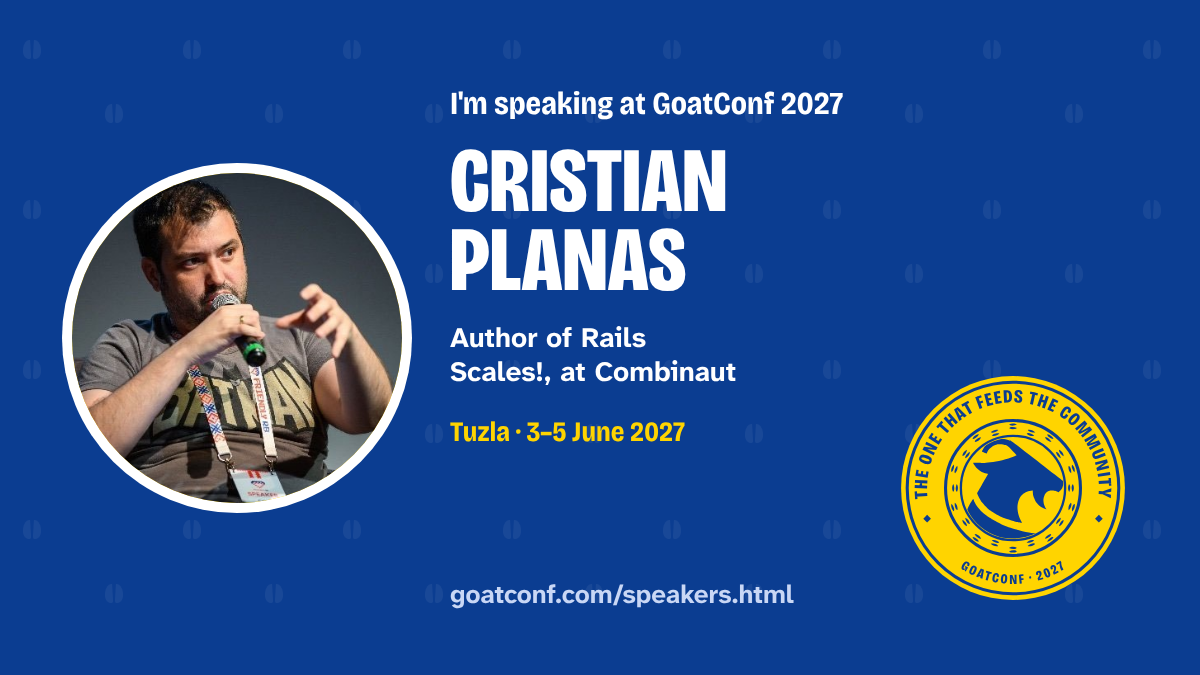
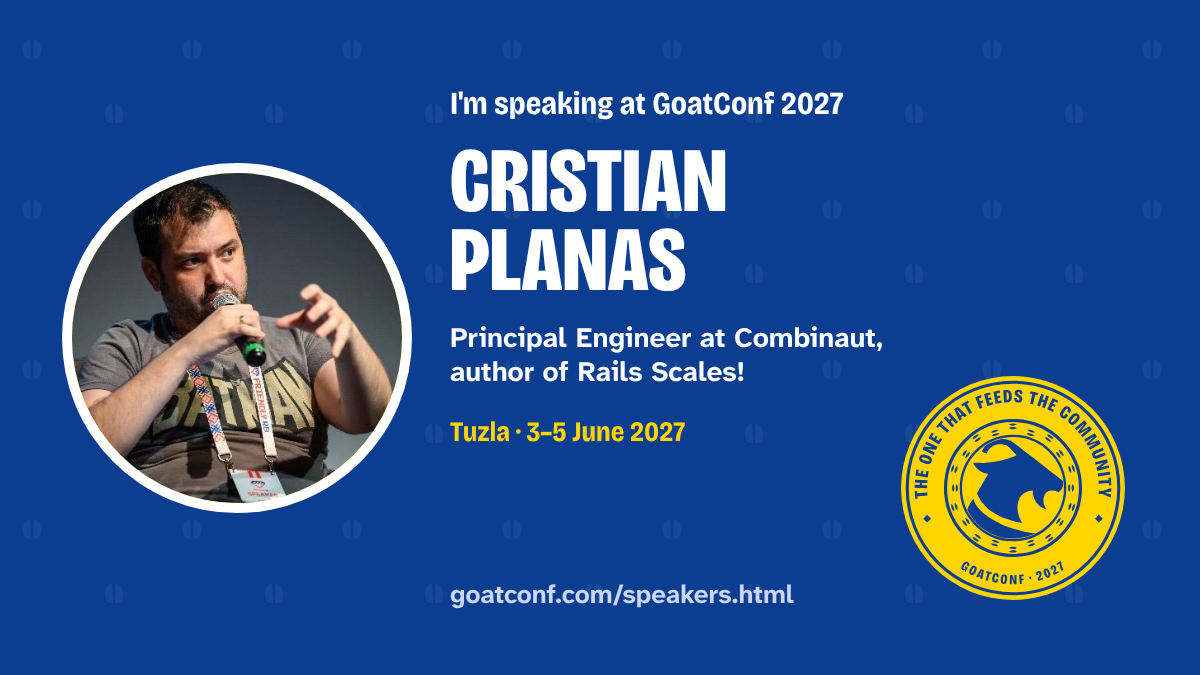
speakers: Cristian Planas is a Principal Engineer at Combinaut
His RubyConf India 2026 speaker card names him Principal Engineer at
Combinaut, which fills the title his wiki page had as unknown. His role
on the site, his cards and the first speakers post in the drumbeat now
reads "Principal Engineer at Combinaut, author of Rails Scales!", in the
shape the other speakers' roles take. The card's text is snapshotted
under sources/web/speakers/, and his wiki page also notes the RubyConf
India talk.

diff --git a/files/site/speaker-cristian-planas.html b/files/site/speaker-cristian-planas.html
@@ -4,7 +4,7 @@
 <meta charset="utf-8">
 <meta name="viewport" content="width=device-width, initial-scale=1">
 <title>Cristian Planas: speaking at GoatConf 2027, Tuzla</title>
-<meta name="description" content="Cristian Planas (Author of Rails Scales!, at Combinaut) speaks at GoatConf 2027 in Tuzla, 3–5 June 2027: a session at IPI Academy.">
+<meta name="description" content="Cristian Planas (Principal Engineer at Combinaut, author of Rails Scales!) speaks at GoatConf 2027 in Tuzla, 3–5 June 2027: a session at IPI Academy.">
 <meta name="theme-color" content="#0b3d91">
 <link rel="canonical" href="https://goatconf.com/speaker-cristian-planas">
 <link rel="image_src" href="https://goatconf.com/share/speaker-cristian-planas-preview.png">
@@ -15,7 +15,7 @@
 <meta property="og:type" content="website">
 <meta property="og:site_name" content="GoatConf">
 <meta property="og:title" content="Cristian Planas: speaking at GoatConf 2027, Tuzla">
-<meta property="og:description" content="Cristian Planas (Author of Rails Scales!, at Combinaut) speaks at GoatConf 2027 in Tuzla, 3–5 June 2027: a session at IPI Academy.">
+<meta property="og:description" content="Cristian Planas (Principal Engineer at Combinaut, author of Rails Scales!) speaks at GoatConf 2027 in Tuzla, 3–5 June 2027: a session at IPI Academy.">
 <meta property="og:url" content="https://goatconf.com/speaker-cristian-planas">
 <meta property="og:image" content="https://goatconf.com/share/speaker-cristian-planas-preview.png">
 <meta property="og:image:width" content="1200">
@@ -47,7 +47,7 @@
 <div class="page-head">
   <picture><source type="image/webp" srcset="img/speakers/cristian-planas-400.webp 400w" sizes="(max-width: 47.99rem) 92vw, 34rem"><img class="page-head__photo page-head__photo--portrait" src="img/speakers/cristian-planas.jpg" width="800" height="800" alt="Cristian Planas" decoding="async"></picture>
   <h1 class="sign">Cristian Planas</h1>
-  <p class="lede"><span class="lede__role">Author of Rails Scales!, at Combinaut</span>Speaking at GoatConf 2027 in Tuzla.</p>
+  <p class="lede"><span class="lede__role">Principal Engineer at Combinaut, author of Rails Scales!</span>Speaking at GoatConf 2027 in Tuzla.</p>
 </div>
 <section class="album-page wrap speaker-page" aria-labelledby="h-about">
   <h2 class="band" id="h-about">Who they are</h2>

diff --git a/files/site/speakers.html b/files/site/speakers.html
@@ -91,7 +91,7 @@
     <a class="speaker__link" href="speaker-cristian-planas.html">
     <span class="num">6</span>
     <figure class="speaker__photo"><picture><source type="image/webp" srcset="img/speakers/cristian-planas-400.webp 400w" sizes="(max-width: 47.99rem) 92vw, 22rem"><img src="img/speakers/cristian-planas.jpg" alt="" loading="lazy"></picture><figcaption>Cristian Planas</figcaption></figure>
-    <span class="speaker__body"><span class="speaker__role">Author of Rails Scales!, at Combinaut</span></span>
+    <span class="speaker__body"><span class="speaker__role">Principal Engineer at Combinaut, author of Rails Scales!</span></span>
     </a>
   </li>
   <li class="sticker sticker--speaker" id="christoph-lipautz" data-peel style="--tilt:0.5deg">

diff --git a/files/site/index.html b/files/site/index.html
@@ -143,7 +143,7 @@
     <a class="speaker__link" href="speaker-cristian-planas.html">
     <span class="num">16</span>
     <figure class="speaker__photo"><picture><source type="image/webp" srcset="img/speakers/cristian-planas-400.webp 400w" sizes="(max-width: 47.99rem) 92vw, 22rem"><img src="img/speakers/cristian-planas.jpg" alt="" loading="lazy"></picture><figcaption>Cristian Planas</figcaption></figure>
-    <span class="speaker__body"><span class="speaker__role">Author of Rails Scales!, at Combinaut</span></span>
+    <span class="speaker__body"><span class="speaker__role">Principal Engineer at Combinaut, author of Rails Scales!</span></span>
     </a>
   </li>
   <li class="sticker sticker--speaker" data-peel style="--tilt:-0.5deg">

diff --git a/files/wiki/org/speakers/cristian-planas.md b/files/wiki/org/speakers/cristian-planas.md
@@ -2,12 +2,14 @@
 title: "Speaker: Cristian Planas"
 kind: entity
 status: living
-updated: 2026-10-14
+updated: 2026-10-22
 confidence: medium
 sources:
   - sources/conversations/2026-10-14--org--cristian-planas.md
   - sources/web/speakers/kaigi-on-rails-2026-cristian-planas-2026-10-14.md
   - sources/web/speakers/rails-scales-and-talks-cristian-planas-2026-10-14.md
+  - sources/conversations/2026-10-22--org--cristian-planas-principal-engineer.md
+  - sources/web/speakers/rubyconf-india-2026-cristian-planas-2026-10-22.md
 ---
 
 # Speaker: Cristian Planas
@@ -23,12 +25,12 @@ sources say and what bears on GoatConf.
 ## Scope
 
 - **Who:** "a Ruby developer, conference speaker, and author of Rails Scales!", with over 15 years of Rails, who "has helped build and scale large applications at Zendesk and now works at Combinaut, exploring the intersection of Ruby, testing, and AI-assisted development" (source: sources/web/speakers/kaigi-on-rails-2026-cristian-planas-2026-10-14.md). Combinaut makes Sparkle, marketing and communication software for healthcare (same source).
-- **Where he works, Now and Perceived:** his newest bio (Kaigi on Rails 2026) says Combinaut; his RubyEvents and Bluesky profiles still say Zendesk, where he was Group Tech Lead and Senior Staff Software Engineer (source: sources/web/speakers/kaigi-on-rails-2026-cristian-planas-2026-10-14.md). The site follows the newest bio on the organiser's choice. His title at Combinaut is *(unknown, needs source)*.
+- **Where he works, Now and Perceived:** his newest bio (Kaigi on Rails 2026) says Combinaut; his RubyEvents and Bluesky profiles still say Zendesk, where he was Group Tech Lead and Senior Staff Software Engineer (source: sources/web/speakers/kaigi-on-rails-2026-cristian-planas-2026-10-14.md). The site follows the newest bio on the organiser's choice. His title at Combinaut is Principal Engineer, by his RubyConf India 2026 speaker card (sources: sources/web/speakers/rubyconf-india-2026-cristian-planas-2026-10-22.md, sources/conversations/2026-10-22--org--cristian-planas-principal-engineer.md).
 - **Before Zendesk:** co-founder and CTO of Playfulbet; he has lived in Barcelona, Helsinki, Copenhagen, San Francisco and New York, and is based in Barcelona (source: sources/web/speakers/kaigi-on-rails-2026-cristian-planas-2026-10-14.md).
 - **The book:** "Rails Scales! Practical Techniques for Performance and Growth", Pragmatic Bookshelf, May 2025, 270 pages (source: sources/web/speakers/rails-scales-and-talks-cristian-planas-2026-10-14.md).
-- **Talks:** sixteen listed since 2022, among them RailsConf 2022, EuRuKo 2023, RubyKaigi 2025, Baltic Ruby 2025, Tropical on Rails 2025, RubyConf Taiwan with COSCUP 2025, RubyConf Africa 2026, RBQ Conf 2026 and Kaigi on Rails 2026. His themes are Rails performance and scale ("A Rails Performance Guidebook: from 0 to 1B requests/day", "The Three Villains of Rails Scalability"), the history of the Zendesk monolith, and, lately, safety nets for AI-written code ("The Revenge of the Cucumber") (source: sources/web/speakers/rails-scales-and-talks-cristian-planas-2026-10-14.md). None is picked for GoatConf yet.
+- **Talks:** sixteen listed since 2022, among them RailsConf 2022, EuRuKo 2023, RubyKaigi 2025, Baltic Ruby 2025, Tropical on Rails 2025, RubyConf Taiwan with COSCUP 2025, RubyConf Africa 2026, RBQ Conf 2026 and Kaigi on Rails 2026. His themes are Rails performance and scale ("A Rails Performance Guidebook: from 0 to 1B requests/day", "The Three Villains of Rails Scalability"), the history of the Zendesk monolith, and, lately, safety nets for AI-written code ("The Revenge of the Cucumber") (source: sources/web/speakers/rails-scales-and-talks-cristian-planas-2026-10-14.md). None is picked for GoatConf yet. On 21 November 2026 he speaks at RubyConf India, at the Novotel Hyderabad Airport, on "Dead Cucumbers & Frozen Capybaras: Building the Safety Net for Agentic Development" (source: sources/web/speakers/rubyconf-india-2026-cristian-planas-2026-10-22.md).
 - **Bio on the site:** his Kaigi on Rails 2026 bio, word for word (source: sources/conversations/2026-10-14--org--cristian-planas.md).
-- **Role on the site and cards:** "Author of Rails Scales!, at Combinaut" (source: sources/conversations/2026-10-14--org--cristian-planas.md).
+- **Role on the site and cards:** "Principal Engineer at Combinaut, author of Rails Scales!" since 2026-10-22, in place of "Author of Rails Scales!, at Combinaut" (sources: sources/conversations/2026-10-22--org--cristian-planas-principal-engineer.md, sources/conversations/2026-10-14--org--cristian-planas.md).
 - **Photo:** his COSCUP 2025 speaker photo, on stage with a microphone; not freely licensed, used on the organiser's decision (source: sources/web/speakers/rails-scales-and-talks-cristian-planas-2026-10-14.md).
 
 ## Adjacent

diff --git a/files/wiki/index.md b/files/wiki/index.md
@@ -2,7 +2,7 @@
 title: "goatconf brain: home"
 kind: meta
 status: draft
-updated: 2026-10-21
+updated: 2026-10-22
 sources: []
 ---
 
@@ -17,7 +17,8 @@ what is proposed is on the [pitches hub](org/pitches/index.md).
 
 ## What changed
 
-<!-- home-section: filled; maintained-by: /shape; updated: 2026-10-21 -->
+<!-- home-section: filled; maintained-by: /shape; updated: 2026-10-22 -->
+- **2026-10-22**: **Cristian Planas is a Principal Engineer at Combinaut.** His role on the site, his cards and the first speakers post now reads "Principal Engineer at Combinaut, author of Rails Scales!", from his RubyConf India 2026 speaker card ([Cristian Planas](org/speakers/cristian-planas.md); sources: sources/conversations/2026-10-22--org--cristian-planas-principal-engineer.md, sources/web/speakers/rubyconf-india-2026-cristian-planas-2026-10-22.md).
 - **2026-10-21**: **A "Proud supporter" card for every supporter.** Each supporter's profile now offers, above GoatConf's thank-you card, its own card to post: "Proud supporter of GoatConf 2027", its logo, its supporter line, Tuzla, 3 to 5 June 2027, and its profile's address, square and wide, the same for every supporter. A long address on a square card is set smaller to stay clear of the seal, which fixes the Bosnia & Herzegovina Futures Foundation's thank-you card ([profiles](org/outreach/supporter-profiles.md); source: sources/conversations/2026-10-21--org--proud-supporter-cards.md).
 - **2026-10-21**: **Companies and communities, and a thank-you for wroclove.rb.** The supporters page's lede, intro and description now say "companies and communities" where they said "companies". The drumbeat's "Thank you, wroclove.rb" post, with its card, takes Tuesday 12 January 2027, week 14, and that week's "Who's organising" post is dropped, with its image ([drumbeat](org/outreach/drumbeat.md); source: sources/conversations/2026-10-21--org--wroclove-rb-extras.md).
 - **2026-10-21**: **wroclove.rb, a community partner, on the supporters wall.** The Ruby conference in Wrocław shares GoatConf on its social media and is listed by name with the other supporters, for "Community partner: social media", with its own logo, a profile drafted from its site and a thank-you card "for being a community partner and sharing GoatConf on social media." A community partner that gives in kind is now listed the same way ([Online supporters](org/adrs/online-supporters-through-the-business.md); [profiles](org/outreach/supporter-profiles.md); sources: sources/conversations/2026-10-21--org--wroclove-rb-community-partner.md, sources/web/supporters/wroclove-rb-about-2026-10-21.md).

diff --git a/files/wiki/org/outreach/drumbeat-2026.md b/files/wiki/org/outreach/drumbeat-2026.md
@@ -2,11 +2,12 @@
 title: "The drumbeat, October to December 2026"
 kind: reference
 status: draft
-updated: 2026-10-20
+updated: 2026-10-22
 confidence: medium
 affects:
   - org
 sources:
+  - sources/conversations/2026-10-22--org--cristian-planas-principal-engineer.md
   - sources/conversations/2026-10-20--org--roy-tomeij-spotlight.md
   - sources/conversations/2026-10-20--org--roy-tomeij.md
   - sources/conversations/2026-10-19--org--more-areas.md
@@ -127,7 +128,7 @@ The posts in the order they go out. The calendar, the rules and what to do when 
   > Carmine Paolino, Creator of RubyLLM, founder of Plenty
   > Dejan Menges, Staff Engineer at Vinted, author of Enola
   > Amar Mahmutbegović, Co-founder and Head of Engineering at Semblie
-  > Cristian Planas, Author of Rails Scales!, at Combinaut
+  > Cristian Planas, Principal Engineer at Combinaut, author of Rails Scales!
   > Christoph Lipautz, Senior Staff Engineer at Meister
   >
   > Each has an hour in one of the seven rooms at IPI Academy on 3 or 4 June, and a profile on the site: goatconf.com/speakers

diff --git a/files/sources/conversations/2026-10-22--org--cristian-planas-principal-engineer.md b/files/sources/conversations/2026-10-22--org--cristian-planas-principal-engineer.md
@@ -1,0 +1,22 @@
+---
+title: "Cristian Planas is a Principal Engineer at Combinaut; his role on the site follows"
+date: 2026-10-22
+kind: conversation
+---
+
+The organiser shared a screenshot of Cristian Planas's RubyConf India
+2026 speaker card (sources/web/speakers/rubyconf-india-2026-cristian-planas-2026-10-22.md)
+and wrote, verbatim:
+
+> Cristian Planas is a Principal Engineer at his job
+
+The card names his job as Principal Engineer at Combinaut. Asked two
+questions, the organiser chose:
+
+- **Role:** "Principal Engineer at Combinaut, author of Rails Scales!
+  (Recommended)", in the shape the other speakers' roles take, in place
+  of "Author of Rails Scales!, at Combinaut". It shows on his profile, the
+  speakers page, the home page and his cards.
+- **The drumbeat:** "Yes, update the draft (Recommended)": the first
+  speakers post in the October to December 2026 drumbeat uses the new
+  role.

diff --git a/files/sources/web/speakers/rubyconf-india-2026-cristian-planas-2026-10-22.md b/files/sources/web/speakers/rubyconf-india-2026-cristian-planas-2026-10-22.md
@@ -1,0 +1,33 @@
+---
+url: (none; a screenshot the organiser shared in the session)
+pulled: 2026-10-22
+fetched_via: the organiser shared a screenshot of the card in the session; its text transcribed here word for word
+source_kind: conference-social
+title: "RubyConf India 2026: Meet our speaker, Cristian Planas"
+---
+
+A "Meet our speaker" card from RubyConf India, with Cristian Planas's
+photo. Shared by the organiser on 2026-10-22 with the words "Cristian
+Planas is a Principal Engineer at his job"
+(sources/conversations/2026-10-22--org--cristian-planas-principal-engineer.md).
+
+The card's text, verbatim:
+
+> RubyConf INDIA
+>
+> MEET OUR SPEAKER
+>
+> Cristian Planas
+> Principal Engineer
+> Combinaut
+>
+> TALK
+> Dead Cucumbers & Frozen Capybaras: Building the Safety Net for Agentic Development
+>
+> DATE
+> 21 November 2026
+>
+> VENUE
+> Novotel Hyderabad Airport
+>
+> REGISTER NOW

diff --git a/files/speakers/cristian-planas.md b/files/speakers/cristian-planas.md
@@ -1,6 +1,6 @@
 ---
 name: Cristian Planas
-role: Author of Rails Scales!, at Combinaut
+role: Principal Engineer at Combinaut, author of Rails Scales!
 photo: img/speakers/cristian-planas.jpg
 links:
   - https://pragprog.com/titles/cprpo/rails-scales/
